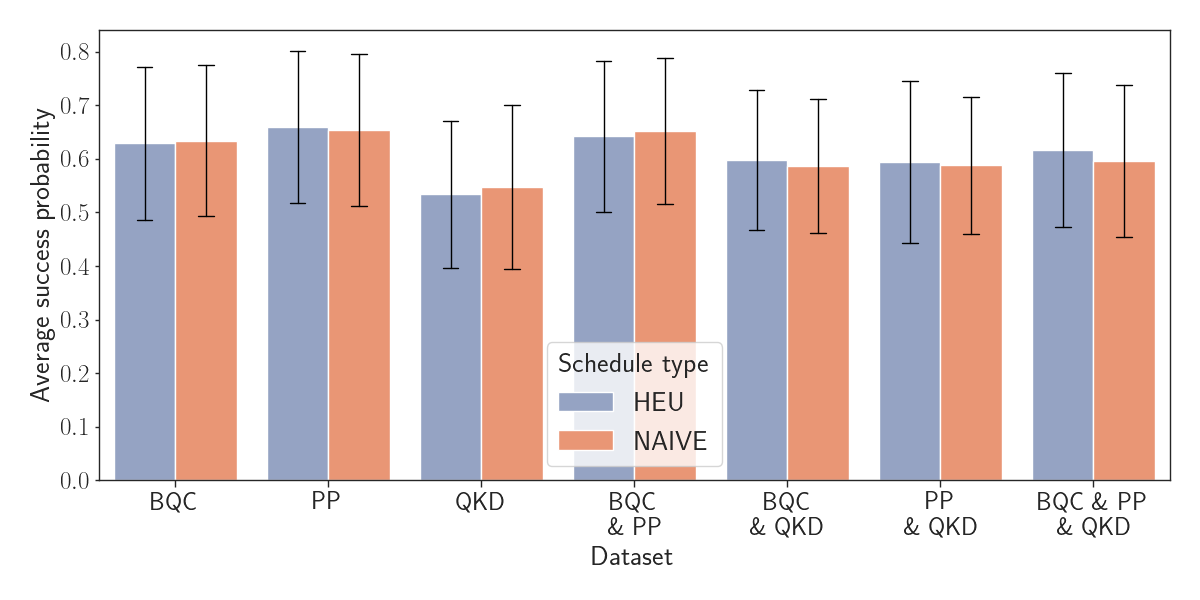
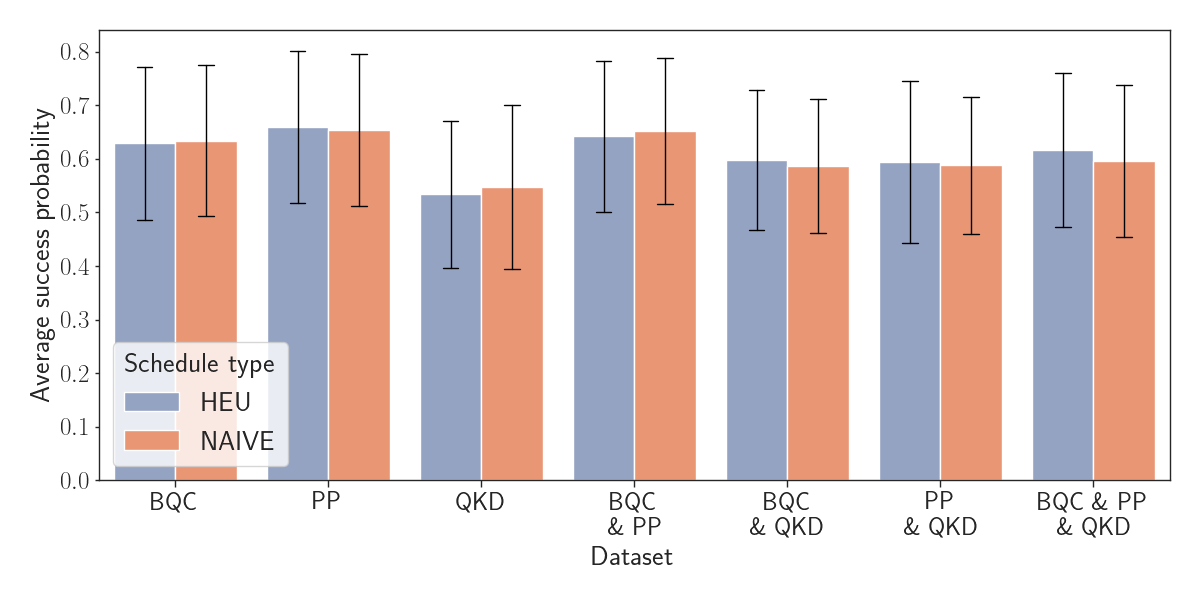
Add makespan check

Changed region(s): [[0.0925, 0.57, 0.2467, 0.78], [0.4625, 0.57, 0.5858, 0.78]]

diff --git a/plots.py b/plots.py
@@ -4,6 +4,7 @@ import seaborn as sns
 import numpy as np
 import os
 
+
 def read_in_data(data_origin):
     big_df = pd.DataFrame()
     for f in os.listdir("results"):
@@ -12,6 +13,7 @@ def read_in_data(data_origin):
             big_df = pd.concat([big_df, df], ignore_index=True)
     big_df.ns_id = pd.to_numeric(big_df.ns_id, errors="coerce")
     return big_df
+
 
 def set_up_seaborn():
     sns.set_theme(context={'axes.linewidth': 1,
@@ -116,6 +118,41 @@ def plot_heuristic_makespan_for_one_network_schedule(n_sessions, schedule_type, 
         plt.savefig(f"plots/compare_makespan_{schedule_type}_{n_sessions}_from_one_NS.png")
     else:
         plt.show()
+
+
+def check_makespan(n_sessions, naive=False):
+    print(f"Comparing makespan for {n_sessions} sessions between "
+          f"{'HEU and OPT' if not naive else 'HEU and NAIVE'} approaches")
+    data = read_in_data("qoala")
+
+    filtered = data[data.n_sessions == n_sessions]
+    if naive:
+        filtered = filtered[filtered.ns_id.notnull()]
+    else:
+        filtered = filtered[filtered.ns_id.isnull()]
+
+    for dataset_id in range(7):
+        dataset = filtered[filtered.dataset_id == dataset_id]
+
+        if naive:
+            comp = []
+            grouped = dataset.groupby(["schedule_type"])["makespan"]
+            mean = grouped.mean().reset_index()
+            heu = float(mean[mean.schedule_type == "HEU"]["makespan"].values[0])
+            naive = float(mean[mean.schedule_type == "NAIVE"]["makespan"].values[0])
+            comp.append(naive / heu)
+            print(f"Relative difference for dataset {dataset_id} is {np.mean(comp)}")
+        else:
+            heuristic = []
+            optimal = []
+            grouped = dataset.groupby(["schedule_type"])["makespan"]
+            mean = grouped.mean().reset_index()
+            heu = float(mean[mean.schedule_type == "HEU"]["makespan"].values[0])
+            opt = float(mean[mean.schedule_type == "OPT"]["makespan"].values[0])
+            heuristic.append(heu)
+            optimal.append(opt)
+            print(f"Relative difference for dataset {dataset_id} is "
+                  f"{(np.mean(optimal) - np.mean(heuristic)) / np.mean(optimal)}")
 
 
 def plot_success_probability_per_network_schedule(dataset_id, n_sessions, ns_id, success_metric, save_fig=True):
@@ -332,7 +369,7 @@ def plot_success_probability_all_datasets_no_ns(n_sessions, save_fig=True):
     ax.set_xticklabels(["BQC", "PP", "QKD", "BQC\n\& PP", "BQC\n\& QKD", "PP\n\& QKD", "BQC \& PP\n\& QKD"])
     plt.xlabel("Dataset")
     plt.ylabel("Average success probability")
-    plt.legend(title="Schedule type")
+    plt.legend(title="Schedule type", loc="lower left")
     plt.tight_layout()
 
     if save_fig:
@@ -398,6 +435,8 @@ if __name__ == '__main__':
     plot_heuristic_makespan_for_one_network_schedule(12, "HEU")
 
     # Plots for -- 7.2 Heuristic-Driven and Optimal Node Schedules --
+    check_makespan(n_sessions=6, naive=False)
+    check_makespan(n_sessions=12, naive=False)
     plot_success_probability_per_network_schedule(0, 6, 8, "success_probability")
     plot_success_probability_per_dataset_ns(dataset_id=0, n_sessions=6)
     plot_success_probability_all_datasets_ns(6)
@@ -406,6 +445,7 @@ if __name__ == '__main__':
     plot_if_for_solve_time_for_ns()
 
     # Plots for -- 7.3 Node Schedules Without Network Schedule Constraints --
+    check_makespan(n_sessions=12, naive=True)
     plot_success_probability_all_datasets_no_ns(n_sessions=12)
     plot_compare_success_metric_for_ns_and_no_ns(12, "success_probability")
     plot_compare_success_metric_for_ns_and_no_ns(12, "makespan")
